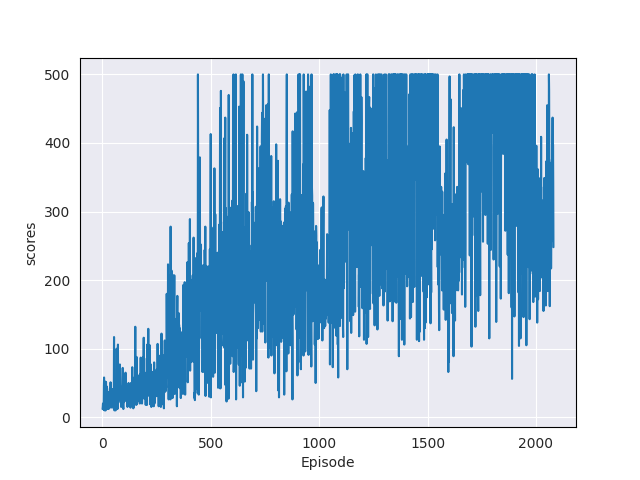
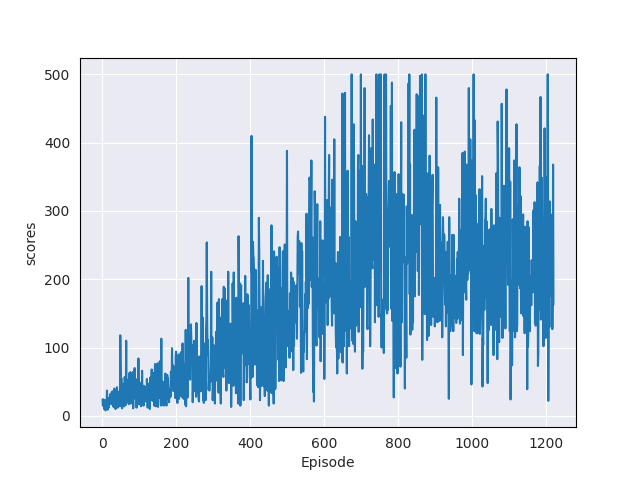
Add REINFORCE

diff --git a/Agent/reinforce_with_baseline.py b/Agent/reinforce_with_baseline.py
@@ -56,7 +56,7 @@ class StateValue(nn.Module):
 
 		self.fc1 = nn.Linear(state_dim, 512)
 		self.fc2 = nn.Linear(512, 1)
-		
+
 		self.optimizer = optim.Adam(self.parameters(), lr=lr)
 
 	
@@ -69,11 +69,14 @@ class StateValue(nn.Module):
 class ReinforceWithBaseline():
 	def __init__(self, state_dim, action_dim, max_action=None, lr=0.0001, gamma=0.99, continuous=False):
 		self.policy = Policy(state_dim ,action_dim, lr, continuous).to(device)
+		self.value = StateValue(state_dim, lr).to(device)
 		self.data = []
 		self.continuous = continuous
 		self.max_action = max_action
 
+
 	def select_action(self, state):
+		state = torch.FloatTensor(state).to(device)
 		if self.continuous:
 			mu, std = self.policy(state)
 			dist = Normal(mu, std)
@@ -85,7 +88,7 @@ class ReinforceWithBaseline():
 			prob = self.policy(state)
 			m = Categorical(prob)
 			a = m.sample()
-			return a, prob[a]
+			return a, torch.log(prob[a])
 
 
 	def save_data(self, data):
@@ -94,6 +97,7 @@ class ReinforceWithBaseline():
 	def train(self):
 		G = 0
 		self.policy.optimizer.zero_grad()
+		self.value.optimizer.zero_grad()
 		for r, log_prob in self.data[::-1]:
 			G = r + gamma * G
 			loss = -log_prob * G
@@ -125,9 +129,9 @@ def pendulum():
 		truncated = False
 	
 		while not done and not truncated:
-			action, prob = agent.select_action(torch.from_numpy(state).float().to(device))
+			action, log_prob = agent.select_action(state)
 			next_state, reward, done, truncated, info = env.step(action.detach().cpu().numpy())
-			agent.save_data((reward, prob))
+			agent.save_data((state, reward, log_prob))
 			state = next_state
 			score += reward
 
@@ -156,7 +160,7 @@ def cartpole():
 	print(f"observation space : {env.observation_space}")
 	print(f'action space: {env.action_space}')
 
-	agent = REINFORCE(env.observation_space.shape[0], 2,\
+	agent = ReinforceWithBaseline(env.observation_space.shape[0], 2,\
 						lr=lr, gamma=gamma, continuous=False)
 
 	score = 0.
@@ -168,7 +172,7 @@ def cartpole():
 		truncated = False
 	
 		while not done and not truncated:
-			action, prob = agent.select_action(torch.from_numpy(state).float().to(device))
+			action, prob = agent.select_action(state)
 			next_state, reward, done, truncated, info = env.step(action.detach().cpu().numpy())
 			agent.save_data((reward, prob))
 			state = next_state

diff --git a/Agent/reinforce.py b/Agent/reinforce.py
@@ -15,7 +15,7 @@ lr = 0.0002
 gamma = 0.98
 
 # train
-env = "Pendulum"
+env = "CartPole"
 policy = "REINFORCE"
 result_path = f"./results/{env}/{policy}"
 model_path = f"./models/{env}/{policy}"
@@ -69,7 +69,7 @@ class REINFORCE():
 			prob = self.policy(state)
 			m = Categorical(prob)
 			a = m.sample()
-			return a, prob[a]
+			return a, torch.log(prob[a])
 
 
 	def save_data(self, data):
@@ -109,9 +109,9 @@ def pendulum():
 		truncated = False
 	
 		while not done and not truncated:
-			action, prob = agent.select_action(torch.from_numpy(state).float().to(device))
+			action, log_prob = agent.select_action(torch.from_numpy(state).float().to(device))
 			next_state, reward, done, truncated, info = env.step(action.detach().cpu().numpy())
-			agent.save_data((reward, prob))
+			agent.save_data((reward, log_prob))
 			state = next_state
 			score += reward
 
@@ -170,4 +170,4 @@ def cartpole():
 	env.close()
 
 if __name__ == "__main__":
-	pendulum()
+	cartpole()

diff --git a/plot.py b/plot.py
@@ -21,7 +21,7 @@ class LearningPlotter():
 
 
 if __name__ == "__main__":
-    file_path = "/home/user/policy-based/results/Pendulum/REINFORCE/scores.npy"
+    file_path = "/home/user/policy-based/results/CartPole/REINFORCE/scores.npy"
 
     learning_plotter = LearningPlotter()
     learning_plotter.plot(file_path)
